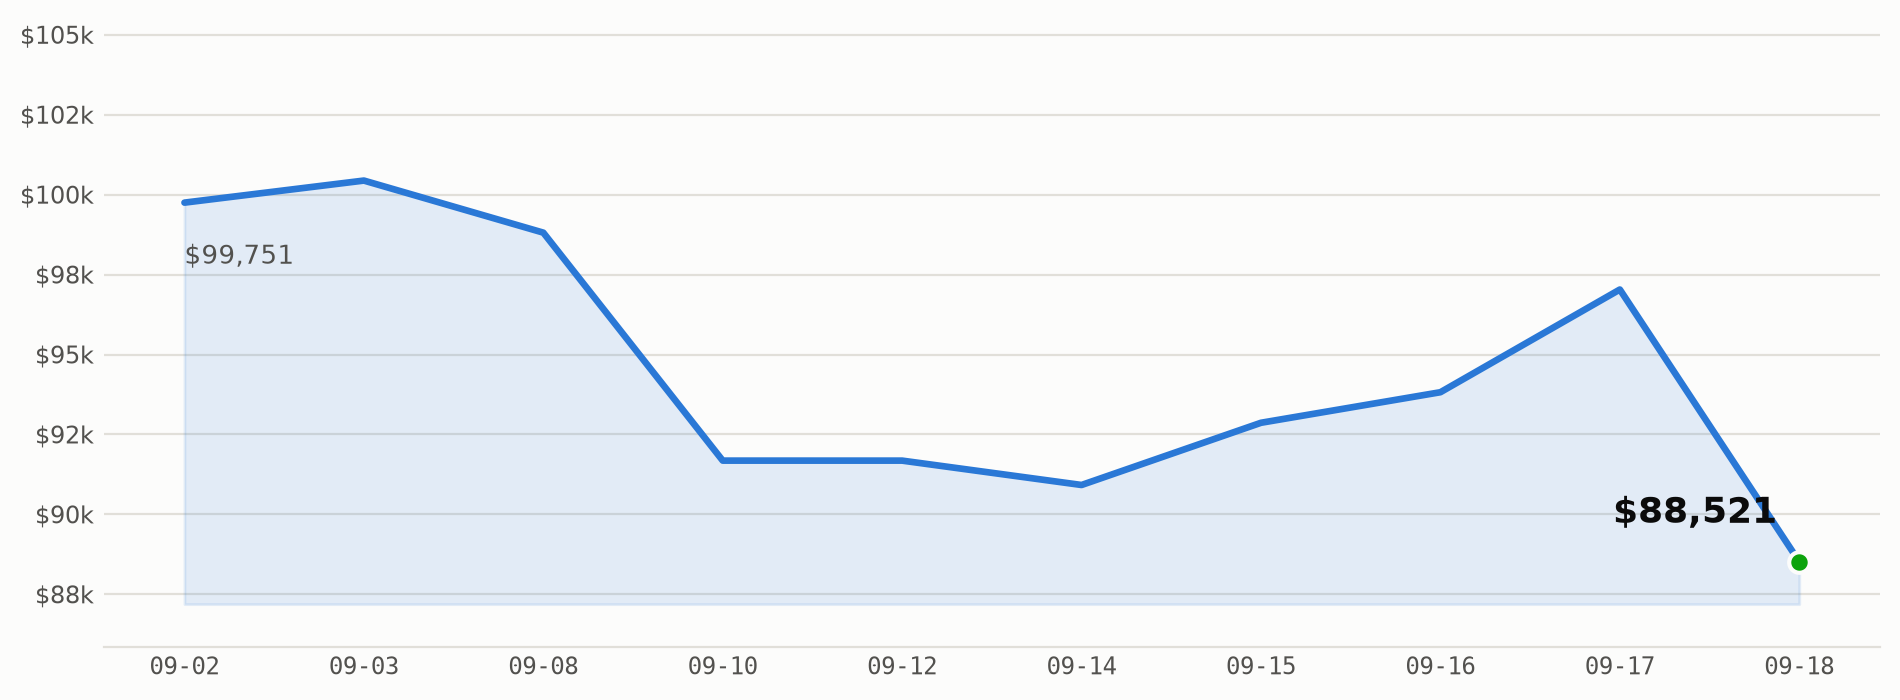
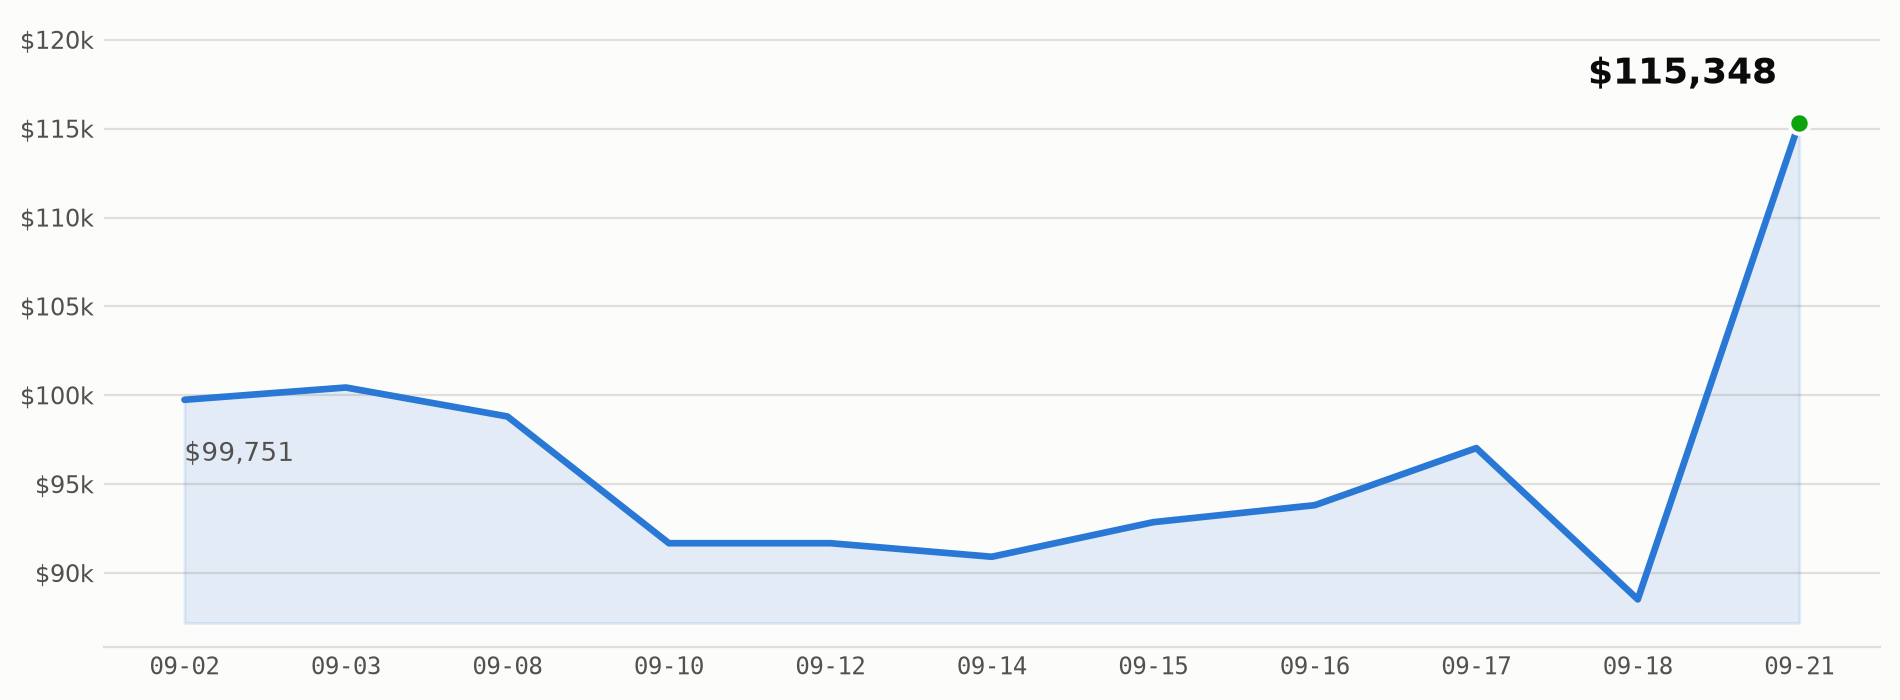
Fix stale equity chart on GitHub: add cache-busting version param to the chart image URL, and log today's equity snapshot so the chart isn't waiting on the 4:15pm daily task to reflect a live intraday win.

diff --git a/scripts/update_readme_dashboard.py b/scripts/update_readme_dashboard.py
@@ -116,6 +116,12 @@ def main():
         print("No equity history yet - skipping chart regeneration.")
         return
     _regenerate_chart(history)
+    # GitHub (and browsers) cache a raw image aggressively by URL - since
+    # the filename never changes, a stale cached copy can keep showing
+    # even after the file itself is updated and pushed. A version query
+    # param tied to the latest date in the data forces a fresh fetch
+    # whenever that data actually changes.
+    chart_version = history[-1]["date"]
 
     return_color = GOOD.lstrip("#") if total_return_pct >= 0 else "d03b3b"
     realized_pnl = ledger_stats["realized_pnl"]
@@ -132,7 +138,7 @@ def main():
 </p>
 
 <p align="center">
-  <img src="docs/equity_curve.png" alt="AlphaCa account equity over time, currently ${equity:,.0f}" width="800">
+  <img src="docs/equity_curve.png?v={chart_version}" alt="AlphaCa account equity over time, currently ${equity:,.0f}" width="800">
 </p>
 {MARKER_END}"""
 

diff --git a/README.md b/README.md
@@ -12,7 +12,7 @@ An autonomous AI trading agent for Alpaca's **Options Alpha** hackathon track.
 </p>
 
 <p align="center">
-  <img src="docs/equity_curve.png" alt="AlphaCa account equity over time, currently $115,348" width="800">
+  <img src="docs/equity_curve.png?v=2026-09-21" alt="AlphaCa account equity over time, currently $115,348" width="800">
 </p>
 <!-- PNL_DASHBOARD_END -->
 
